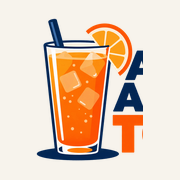
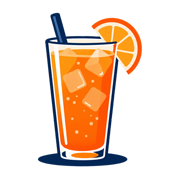
Updates

Changed region(s): [[0.1944, 0.0556, 0.8056, 0.9444], [0.4167, 0.7222, 0.4722, 0.75], [0.4722, 0.75, 0.5, 0.7778]]

diff --git a/app/privacy/page.tsx b/app/privacy/page.tsx
@@ -22,13 +22,6 @@ export default function PrivacyPage() {
 
                     <div className="prose-a:text-primary mt-10 space-y-8 text-base leading-relaxed text-foreground/85">
                         <section>
-                            <h2 className="font-display text-2xl font-bold uppercase tracking-wide text-md-black">To Keep It Simple</h2>
-                            <p className="mt-3">
-                                Your information is yours, and stays yours. It's not getting shared or sold.
-                            </p>
-                        </section>
-
-                        <section>
                             <h2 className="font-display text-2xl font-bold uppercase tracking-wide text-md-black">Petition submissions</h2>
                             <p className="mt-3">
                                 The petition collects the information shown on the form, including your name, email address, Zip code, 
@@ -51,9 +44,8 @@ export default function PrivacyPage() {
                             <p className="mt-3">
                                 Coalition updates are optional. The petition offers a separate updates checkbox, unchecked by default. 
                                 Contact messages do not opt you into updates. If you choose to subscribe to updates, you'll receive a handful 
-                                of messages at most to keep you updated as the bill progressses through the Maryland General Assembly. We don't 
-                                like spam either, so we'll keep it to a minimum. You can unsubscribe at any point by clicking the unsubscribe 
-                                link in the email.
+                                of messages at most to keep you updated as the bill progresses through the Maryland General Assembly. You can 
+                                unsubscribe at any point by clicking the unsubscribe  link in the email.
                             </p>
                         </section>
 

diff --git a/components/petition-section.tsx b/components/petition-section.tsx
@@ -117,7 +117,6 @@ export function PetitionSection() {
                                 <SupporterTypeOption
                                     value="individual"
                                     label="An individual"
-                                    description="Add my personal signature"
                                     icon={UserRound}
                                     selected={form.supporterType === 'individual'}
                                     onSelect={() => setSupporterType('individual')}
@@ -125,7 +124,6 @@ export function PetitionSection() {
                                 <SupporterTypeOption
                                     value="business"
                                     label="A business or organization"
-                                    description="Sign on behalf of a business"
                                     icon={Building2}
                                     selected={form.supporterType === 'business'}
                                     onSelect={() => setSupporterType('business')}
@@ -251,7 +249,7 @@ function SupporterTypeOption({
 }: {
     value: SupporterType
     label: string
-    description: string
+    description?: string
     icon: LucideIcon
     selected: boolean
     onSelect: () => void
@@ -275,7 +273,9 @@ function SupporterTypeOption({
             </span>
             <span>
                 <span className="block text-sm font-semibold text-md-black">{label}</span>
-                <span className="mt-0.5 block text-xs text-muted-foreground">{description}</span>
+                { description && (
+                    <span className="mt-0.5 block text-xs text-muted-foreground">{description}</span>
+                )}
             </span>
         </label>
     )

diff --git a/components/site-header.tsx b/components/site-header.tsx
@@ -53,15 +53,10 @@ export function SiteHeader() {
                     <a
                         href="/#petition"
                         className={buttonVariants({
-                            className: 'h-11 px-3 font-display text-xs font-bold uppercase tracking-wide sm:h-12 sm:px-6 sm:text-lg',
+                            className: 'h-11 px-5 md:px-3 font-display text-xs font-bold uppercase tracking-wide sm:h-12 sm:px-6 sm:text-lg',
                         })}
                     >
-                        <span className="sm:hidden">
-                            Sign petition
-                        </span>
-                        <span className="hidden sm:inline">
-                            Sign the Petition
-                        </span>
+                        Sign the Petition
                     </a>
                     <button
                         type="button"

diff --git a/components/contact-section.tsx b/components/contact-section.tsx
@@ -142,9 +142,9 @@ export function ContactSection() {
                             <Button type="submit" size="lg" disabled={isSubmitting} className="h-12 w-full font-display text-base font-semibold uppercase tracking-wide">
                                 {isSubmitting ? 'Sending…' : submitLabels[reason]}
                             </Button>
-                            <p className="text-center text-xs text-muted-foreground">
+                            {/* <p className="text-center text-xs text-muted-foreground">
                                 See our <a href="/privacy" className="underline underline-offset-2 hover:text-primary">privacy notice</a>.
-                            </p>
+                            </p> */}
                         </form>
                     )}
                 </div>

diff --git a/components/site-footer.tsx b/components/site-footer.tsx
@@ -29,7 +29,7 @@ export function SiteFooter() {
 
                 <div className="mt-10 flex flex-col gap-2 border-t border-md-cream/15 pt-6 text-xs text-md-cream/50 sm:flex-row sm:items-center sm:justify-between">
                     <p>&copy; {new Date().getFullYear()} Anne Arundel To Go</p>
-                    <p className="text-right">Not affiliated with any government agency or political campaign/organization.<br />Please drink responsibly.</p>
+                    <p className="md:text-right">Not affiliated with any government agency or political campaign/organization.<br />Please drink responsibly.</p>
                 </div>
             </div>
         </footer>

diff --git a/app/page.tsx b/app/page.tsx
@@ -22,7 +22,7 @@ const structuredData = {
             email: 'hello@annearundeltogo.com',
             logo: {
                 '@type': 'ImageObject',
-                url: `${SITE_URL}/images/anne-arundel-to-go-logo.png`,
+                url: `${SITE_URL}/images/anne-arundel-to-go-logo-white-background.png`,
             },
             description: SITE_DESCRIPTION,
             founder: {

diff --git a/app/layout.tsx b/app/layout.tsx
@@ -66,7 +66,7 @@ export const metadata: Metadata = {
                 width: 1200,
                 height: 630,
                 type: 'image/jpeg',
-                alt: 'Anne Arundel To Go — Let Anne Arundel Take It To-Go',
+                alt: 'Anne Arundel To Go - Let Anne Arundel Take It To-Go',
             },
         ],
     },

diff --git a/README.md b/README.md
@@ -9,3 +9,29 @@ CONTACT_RECIPIENT_EMAIL=hello@annearundeltogo.com
 
 
 npx wrangler secret put RESEND_API_KEY
+
+
+## To Do
+
+### manifest.ts
+* [x] /icon-192.png (192x192)
+* [x] /icon-512.png (512x512)
+
+### layout.tsx
+
+* [x] /favicon.ico
+* [x] /icon-32.png
+
+* [x] /apple-touch-icon.png (180x180)
+
+
+### global
+
+* [ ] OG Image (1200x630) -- /images/anne-arundel-to-go-og.jpg
+
+### page.tsx
+
+* [x] /images/anne-arundel-to-go-logo.png (needs to be on a white background)
+
+
+* [ ] Apple share image?
